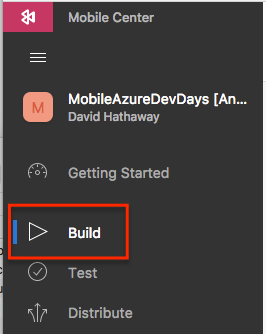
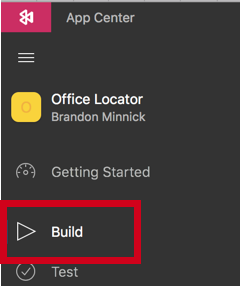
Removed Duplicate Steps from Easy Table Hack, Removed MobileDevDays Images, and

Changed region(s): [[0.0, 0.0, 1.0, 1.0], [0.2333, 0.5035, 0.6417, 0.5594], [0.0875, 0.4755, 0.175, 0.5315]]

diff --git a/hacks/app-center-hack.md b/hacks/app-center-hack.md
@@ -1,243 +1,93 @@
 # Visual Studio App Center Hack
 
-### Step 1: Create a GitHub Account
+### Step 1: Complete the [Easy Tables Hack](./easy-table-hack.md)
 
-If you already have a GitHub account, you can jump directly to Step 2 below.  Otherwise, please follow these steps to create your account:
+### Step 2: Update your code in GitHub with the App Service URL
 
-- Browse to [https://github.com/join](https://github.com/join)
-- Enter in your username, e-mail address, and a password
-
-![Create new account](img/mobile-center-hack/1-1-create-account.png)
-
-- Chose "Unlimited public repositories for free." This is sufficient for this exercise, and you can easily upgrade to a paid account later.
-
-![Create new account](img/mobile-center-hack/1-2-choose-free-account.png)
-
-- Choose any additional options, or simply click "skip this step"
-
-![Create new account](img/mobile-center-hack/1-3-additional-account-options.png)
-
-- Confirm your e-mail address by clicking the "Verify email address" link in the e-mail you received to the address used in step 2 above. (note, if you skip this step, you won't be able to continue with the tutorial).
-
-![Create new account](img/mobile-center-hack/1-4-verify-email.png)
-
-Congrats! You're now ready to move on to Step 2: Forking the repo
-
-### Step 2: Forking the "app-office-locator" repo
-
-- Navigate to [http://github.com/dwhathaway/app-office-locator](http://github.com/dwhathaway/app-office-locator)
-
-![Create new account](img/mobile-center-hack/2-1-fork-repo.png)
-
-- Click the "Fork" icon in the top right corner.  You'll be brought to a subsequent screen showing that the repo is being forked, and then you'll ultimately arrive at your own forked copy of the repo that you'll use for the remainder of this exercise.
-
-![Create new account](img/mobile-center-hack/2-2-repo-forking.png)
-
-### Step 3: Create your Azure Account
-
-There are several different ways to create an Azure account.  A few examples are:
-
-- Your company/employer has a subscription, and has added you to it
-- You have a visualstudio.com subscription (i.e. Enterprise, Professional, or Dev Essentials), and you have the associated Azure credits
-- You've already signed up for the "Azure free account"
-
-To check to see if you have an Azure subscription already, browse to [https://portal.azure.com](https://portal.azure.com).  Sign in with your existing Microsoft.com account, and browse to the "Subscriptions" blade in the Azure portal.
-
-If you do not already have an account/subscription, you will be prompted to create one.  If you need to create a new account/subscription, browse to [https://azure.microsoft.com/en-us/free/](https://azure.microsoft.com/en-us/free/), and click the "Start free" button to begin starting your account.
-
-> __Note:__ You will need to enter in a credit card to create your account.  This card will _only_ be used to pay for charges that exceeed your monthly allocation (e.g. $150/mo for Enterprise users).
-
-### Step 4: Create a new Mobile App Service
-
-- Browse to [https://portal.azure.com](https://portal.azure.com)
-- New > Mobile App
-- Give the app a name (this must be unique - don't worry, the portal will tell you if it's not), select your Azure Subscription, choose "Create new" for the resource group, and copy the same value you used for your app name into the Resource Group Name field (we'll create all of our resources under this same Resource Group).
-- Click "Create"
-
-![Create Mobile App](img/create-app-service.png)
-
-### Step 5: Create a SQL Database
-
-> __Note:__ For this exercise, we'll create a new SQL Server instance but you can also choose an existing instance if you prefer.
-
-- Once again, browse to [https://portal.azure.com](https://portal.azure.com)
-- Click "SQL Databases" from the menu on the left of the page, then click the "+ Add" button
-- Enter in a name for the database (e.g. `my-office-locator`)
-- Choose your Azure Subscription
-- Choose "Use existing", and select the `my-office-locator` resource group you created in the previous section
-- Choose "Blank database"
-- Click on "Server", and click "Create a new server"
-- Enter a name for your server
-- Enter a username (must be unique, and you cannnot use `sa`)
-- Enter in a unique password to the "Password" and "Confirm password" fields
-- Choose a region (any region is fine)
-- Click "Select".  This will return you to the SQL Database blade where you'll finalize configuration
-- Choose "Pricing tier", and select "Basic", then click "Apply"
-- Click "Create" to create the SQL Database
-
-### Step 6: Set up your Data connection
-
-- In your Mobile App Service, select the "Data connections" blade
-- Click "Add" to add a new Data Connection
-- Click the "Sql Database" option, and choose the database that we created in __Step 3__
-
-![Select Database](img/add-data-connection.png)
-
-- Click on "Connection string", and enter in the Username/Password that you used in Step 3 to create your database, then click "OK"
-
-![Select Database](img/data-conn-add-credentials.png)
-
-- Click "OK" one more time to add the connection.  This will take a minute or so to complete, at which point you'll see a note toast in the upper right hand corner indicating that the connection has been added
-
-![Data connection added](img/data-connection-complete.png)
-
-### Step 7: Set up your Easy Tables
-
-- While still in your app, click on the "Easy tables" blade
-
-![Choose 'Easy Tables'](img/choose-easy-tables.png) 
-
-You'll see a message stating that Tables/Easy APIs hasn't been configured yet.  Click on that message to configure.
-
-![Configure 'Easy Tables'](img/click-to-config-tables.png)
-
-You've already set up your data connection, so all you need to do is check the checkbox that says "I acknowledge that this will overwrite all site contents.", and click the "Create TodoItem table" button.  This will initialize your Mobile App Service for Easy Tables
-
-![Create TodoItem Table](img/create-todo-table.png)
-
-This will take a minute or two to complete.  Once it's done, you'll be returned back to the Easy Tables blade, where you can set up your Location and Feedback tables
-
-### Step 8: Upload the CSV file to populate locations
-
-- On the Easy Tables blade, click the "Add from CSV" button
-- Browse Click the "Select a file" field, and browse to the `my-office-locator.csv` file in the `data` folder of the repo that you cloned in __Step 1__
-- Change the "Name" field to "Location", and leave all the rest of the fields as they are
-- Scroll to the bottom, and click the white square with the blue border (yes, that's a button)
-
-![Save 'Location' Table](img/save-location-table.png)
-
-This will initialize a new table, and populate it with the locations that you uploaded. Scroll to the top of the page, and look for the "Successfully imported!" message, then click the "X" to close out the blade.
-
-Next, we'll change the code in the app to pull from your App Service.
-
-
-### Step 9: Update your code in GitHub with the App Service URL
-
-- Browse to your GitHub repo, and then select 
-
-app-office-locator > src > Office-Locator > Services.cs
-
-- Choose the file TextAnalysis.cs, end then choose the "Edit" icon
-- Delete the `#error` pragma on Line #38
+- In your web browser, navigate to your GitHub repo
+- Navigate to `Constants/AzureConstants.cs`
+- Click the "Edit" icon
+- If Line #5 contains `#error Missing Azure Endpoint URL`, delete the entire line
 - Browse to your app in the Azure Portal, and copy the URL form the Overview page.  To do so, click the "Overview" blade, and then hover over the URL to show the 'page' icon.  Click on that icon to copy your URL
 
 ![Copy endpoint URL](img/copy-endpoint-url.png)
 
 After both code changes, your code should look like this:
 
-````
-
-public AzureDataStore()
+```csharp
+public static class AzureConstants
 {
-    // This is a sample read-only azure site for demo
-    // Follow the readme.md in the GitHub repo on how to setup your own.
-    MobileService = new MobileServiceClient("[your endpoint here]");
+    public const string MobileServiceClientUrl = "https://[your endpoint here]";
 }
-````
+```
 
 - Scroll to the bottom and enter in any comment into the "Commit changes" field set, and click "Commit changes" button to commit your key to source control
 
-![Search Results](img/mobile-center-hack/4-8-commit-comments.png)
+![image](img/mobile-center-hack/4-8-commit-comments.png)
 
-> __Note:__ For this exercise, we are commiting your API key to source control.  In general, we recommend using services like [Azure Key Vault](https://azure.microsoft.com/en-us/services/key-vault/) to securely store your API keys, and integrate them into your code during your build.
+> __Note:__ For this exercise, we are committing your API key to source control.  In general, we recommend using services like [Azure Key Vault](https://azure.microsoft.com/en-us/services/key-vault/) to securely store your API keys, and integrate them into your code during your build.
 
-
-### Step 10: Create your App Center Account
+### Step 3: Create your App Center Account
 
 In this step, we're not going to sign into App Center using our Github credentials, and set up our builds. Since you are already signed in to GitHub, we can simply authorize App Center to access your GitHub repositories using the following steps.
 
 - Browse to [https://appcenter.ms/apps](https://appcenter.ms/apps), and click on "Connect with GitHub"
 
-![Search Results](img/mobile-center-hack/6-1-create-mc-account.png)
+![image](img/mobile-center-hack/6-1-create-mc-account.png)
 
 - Click the "Authorize App Center" button
 
-![Search Results](img/mobile-center-hack/6-2-mc-gh-auth.png)
+![image](img/mobile-center-hack/6-2-mc-gh-auth.png)
 
-### Step 11: Create and App in App Center
+### Step 4: Create and App in App Center
 
 - In the top right corner of App Center, click the "Add new" button, and select "Add new app"
 
-![Search Results](img/mobile-center-hack/7-1-add-app.png)
+![image](img/mobile-center-hack/7-1-add-app.png)
 
-- Enter `my-office-locator [Android]` in the name field, and choose Android for the OS, and Xamarin for the Platform.
-
-![Search Results](img/mobile-center-hack/7-2-app-details.png)
+- Enter `Office Locator` in the name field, and choose Android for the OS, and Xamarin for the Platform.
 
 - Click "Add new app" in the bottom right corner
 
 Once created, App Center will automatically navigate you to your newly created app
 
-### Step 12: Set up a Build
+### Step 5: Set up a Build
 
 - Click on the "Build" service from the left hand menu
 
-![Search Results](img/mobile-center-hack/8-1-build.png)
+![image](img/mobile-center-hack/8-1-build.png)
 
 Here, you will connect App Center to your GitHub repository that you created at the beginning of this exercise
 
 - Select "Github"
 
-![Search Results](img/mobile-center-hack/8-2-github.png)
+![image](img/mobile-center-hack/8-2-github.png)
 
 - Search for "app-office-locator"
 - Click on the "app-office-locator" repo in the search results
-
-![Search Results](img/mobile-center-hack/8-3-pick-repo.png)
 
 App Center will now perform it's magic, and connect up to your repo. Once this is done, we can set up our build.
 
 - Click on the "Master" branch
 
-![Search Results](img/mobile-center-hack/8-9-pick-master.png)
+![image](img/mobile-center-hack/8-9-pick-master.png)
 
 - Click "Configure build"
 
-![Search Results](img/mobile-center-hack/8-10-config-build.png)
+![image](img/mobile-center-hack/8-10-config-build.png)
 
 - Configure your app as show in the image below
 
-![Search Results](img/mobile-center-hack/8-11-build-settings.png)
+![image](img/mobile-center-hack/8-11-build-settings.png)
 
 - Click "Save & Build"
 
-![Search Results](img/mobile-center-hack/8-12-save-build.png)
+![image](img/mobile-center-hack/8-12-save-build.png)
 
 App Center will now go ahead and build your app, and create an APK file.  Go ahead, grab a cup of coffee, this will only take a few minutes, but you've got time.
 
+### Congratulations
 
-### Step 13: Distribute your app
+You've built your first app using Visual Studio App Center.  For more information on how to create 5-start apps with Visual Studio App Center, please visit [https://www.visualstudio.com/app-center](https://aka.ms/visualstudioappcenter).
 
-Awesome, we're back.  Now that we've built an app, we can go ahead and distribute it
-
-- On your completed build, click the "Distribute" button
-
-![Search Results](img/mobile-center-hack/9-1-click-distribute.png)
-
-- Choose the group you want to distribute to (you will only see "Collaborators", but documentation on creating additional distribution groups can be found [here](https://docs.microsoft.com/en-us/mobile-center/distribution/groups)), and click "Next"
-
-![Search Results](img/mobile-center-hack/9-2-choose-group.png)
-
-- Enter in any comments that you want to show as release notes
-
-![Search Results](img/mobile-center-hack/9-3-release-notes.png)
-
-4. Click "Distribute"
-
-![Search Results](img/mobile-center-hack/9-4-click-distribute.png)
-
-Once the distribution is complete, everyone in the distribution list will receive an e-mail letting them know that they can download/install the release.  Alternatively, you can browse to [https://install.appcenter.ms/apps](https://install.appcenter.ms/apps) from your mobile device (Safari on iOS, Chrome on Android) to view available releases.
-
-### Congratulations!
-
-You've not built, and distributed your first app using Visual Studio App Center.  For more information on how to ship 5-start apps with Visual Studio App Center, please visit [https://docs.microsoft.com/en-us/appcenter/](https://docs.microsoft.com/en-us/appcenter/).  There you can find information on the Crash, Test, and Analytics capabilities of Visual Studio App Center, as well as how to integrate into additional services like Application Insights, or Visual Studio Team Services.
+There you can find information on the Crash, Test, and Analytics capabilities of Visual Studio App Center, as well as how to integrate into additional services like Application Insights, or Visual Studio Team Services.
